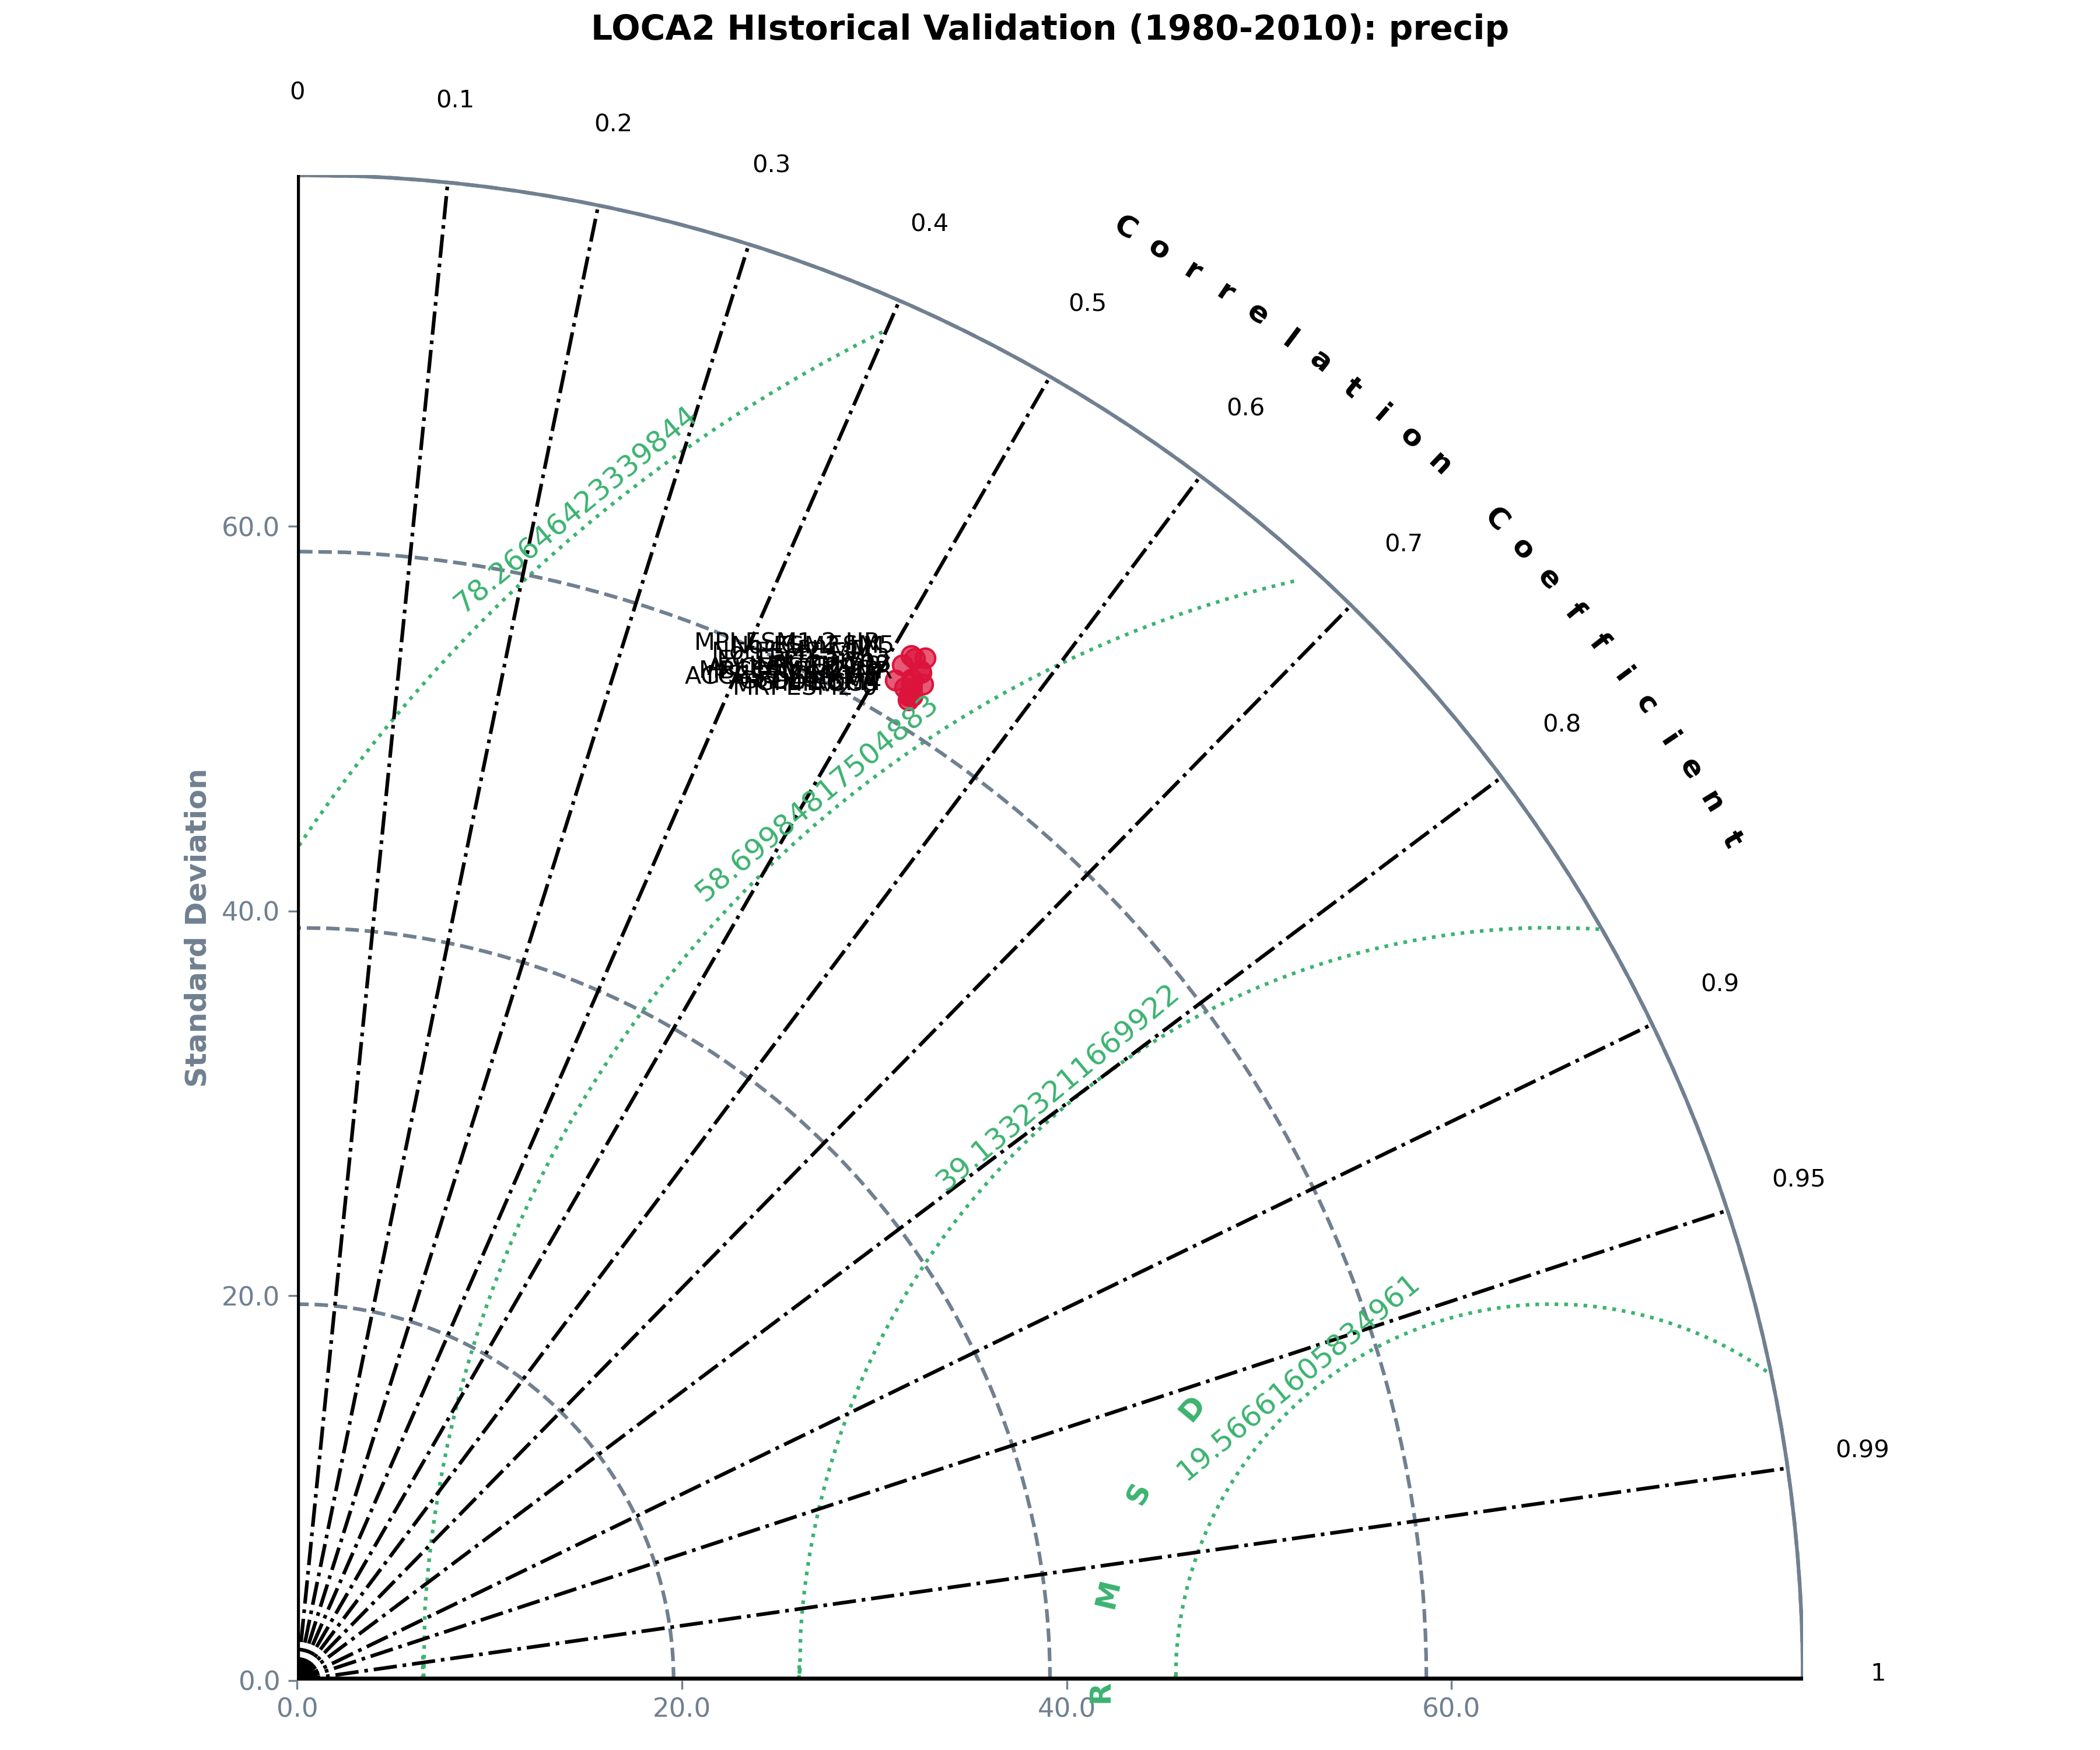
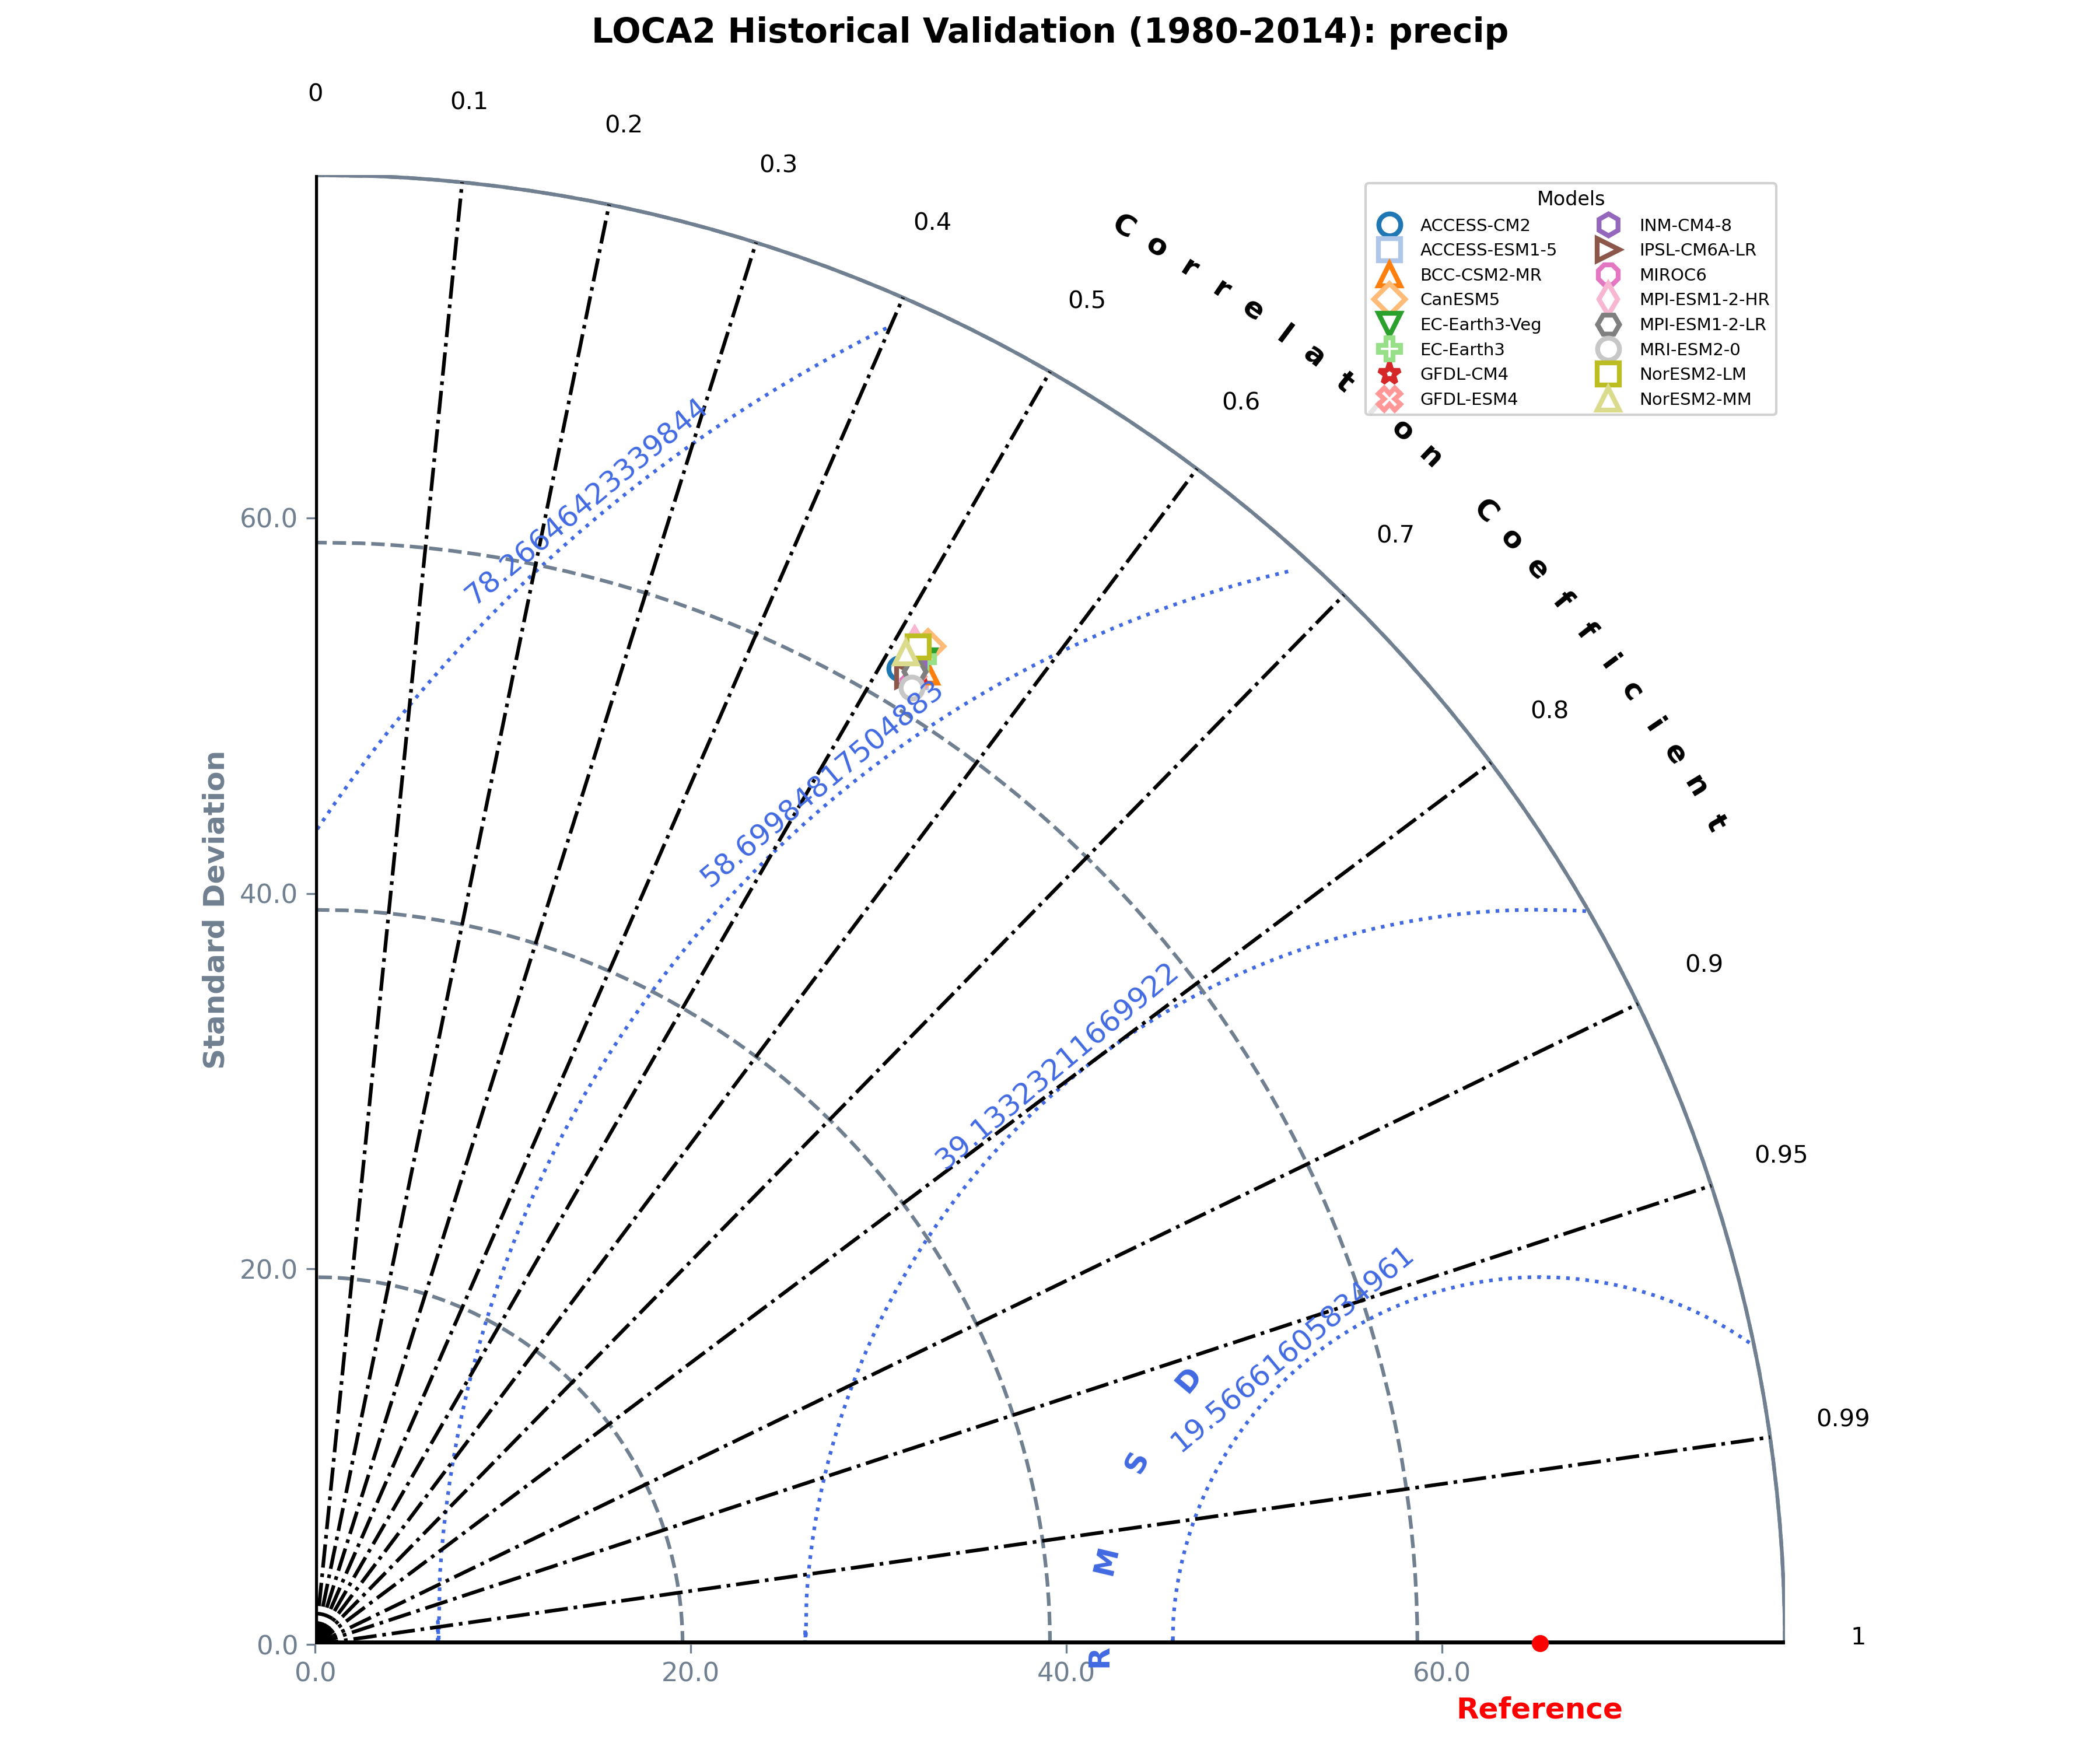
Added colors/symbols to plots and fixed precipitation diagram

diff --git a/loca2_taylor_analysis.py b/loca2_taylor_analysis.py
@@ -4,6 +4,7 @@ import numpy as np
 import xarray as xr
 import matplotlib.pyplot as plt
 import skill_metrics as sm
+import seaborn as sns
 
 # path to CDO-aggregated 1980-2010 baseline reference
 LIVNEH_REF = os.path.expanduser("~/LOCA2-WBM_code/livneh_monthly_1980_2010.nc")
@@ -25,6 +26,20 @@ var_mapping = {
 folders = sorted(glob.glob(os.path.join(MODEL_DIR, "*_newprcp")))
 model_names = [os.path.basename(f).split('_')[0] for f in folders]
 
+# colormap and symbols for plotting (later)
+cmap = plt.get_cmap('tab20')
+symbols = ['o','s','^','D','v','P','*','X','h','<','>','p','8','d','H']
+
+MODEL_STYLE = {
+    m: {
+        'faceColor': 'w',
+        'edgeColor': cmap(i % 20),
+        'symbol': symbols[i % len(symbols)],
+        'size': 9,
+        'labelColor': 'black',
+    }
+    for i, m in enumerate(model_names)
+}
 # run historical validation loop per variable
 with xr.open_dataset(LIVNEH_REF) as obs_ds:
     for model_var, livneh_var in var_mapping.items():
@@ -97,22 +112,33 @@ with xr.open_dataset(LIVNEH_REF) as obs_ds:
             crmsds = np.array(crmsd_list)
             ccs = np.array(cc_list)
 
-            plt.figure(figsize=(12,10))
+            fig = plt.figure(figsize=(12,10))
+
+            markers_dict = {m: MODEL_STYLE[m] for m in active_models}
 
             sm.taylor_diagram(sdevs, crmsds, ccs,
-                markerLabel=['Observed'] + active_models,
-                markerColor='Crimson',
-                markerSymbol='o',
-                markerSize=8,
-                alpha=0.7,
+                markerLegend='on',
+                markers=markers_dict,
+                markerObs='o',
+                colObs='red',
+                titleOBS='Reference',
                 axisMax=float(np.max(sdevs)*1.2),
                 colCOR='black',
-                colRMS='MediumSeaGreen',
+                colRMS='RoyalBlue',
                 colSTD='SlateGray',
                 styleRMS=':',
                 styleSTD='--')
+
+            ax = plt.gca()
+            leg = ax.get_legend()
+            handles = leg.legendHandles
+            labels = [t.get_text() for t in leg.get_texts()]
+            leg.remove()
+            fig.subplots_adjust(right=0.9)
+            ax.legend(handles, labels, loc='upper right', fontsize=7,
+                    ncol=2, framealpha=0.9, title='Models', title_fontsize=8)
                     
-            plt.title(f'LOCA2 HIstorical Validation (1980-2010): {model_var}', y=1.08, fontsize=14, fontweight='bold')
+            plt.title(f'LOCA2 Historical Validation (1980-2014): {model_var}', y=1.08, fontsize=14, fontweight='bold')
             plt.tight_layout()
             output_plot = os.path.join(OUTPUT_DIR, f"{model_var}_taylor_diagram.png")
             plt.savefig(output_plot, dpi=300)